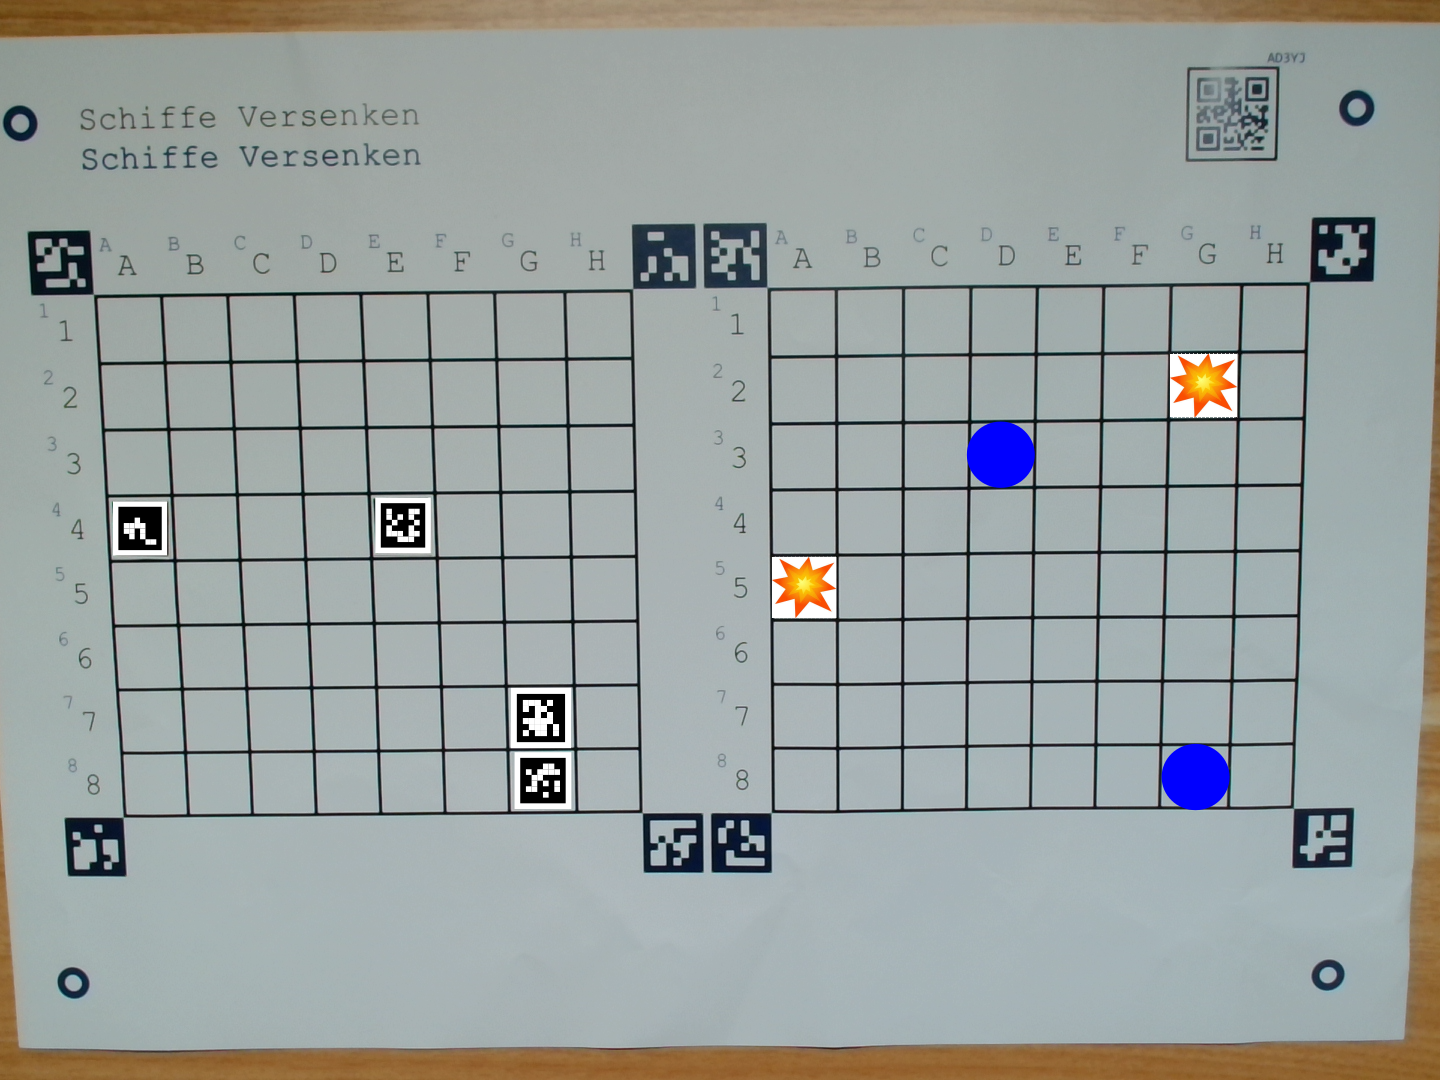
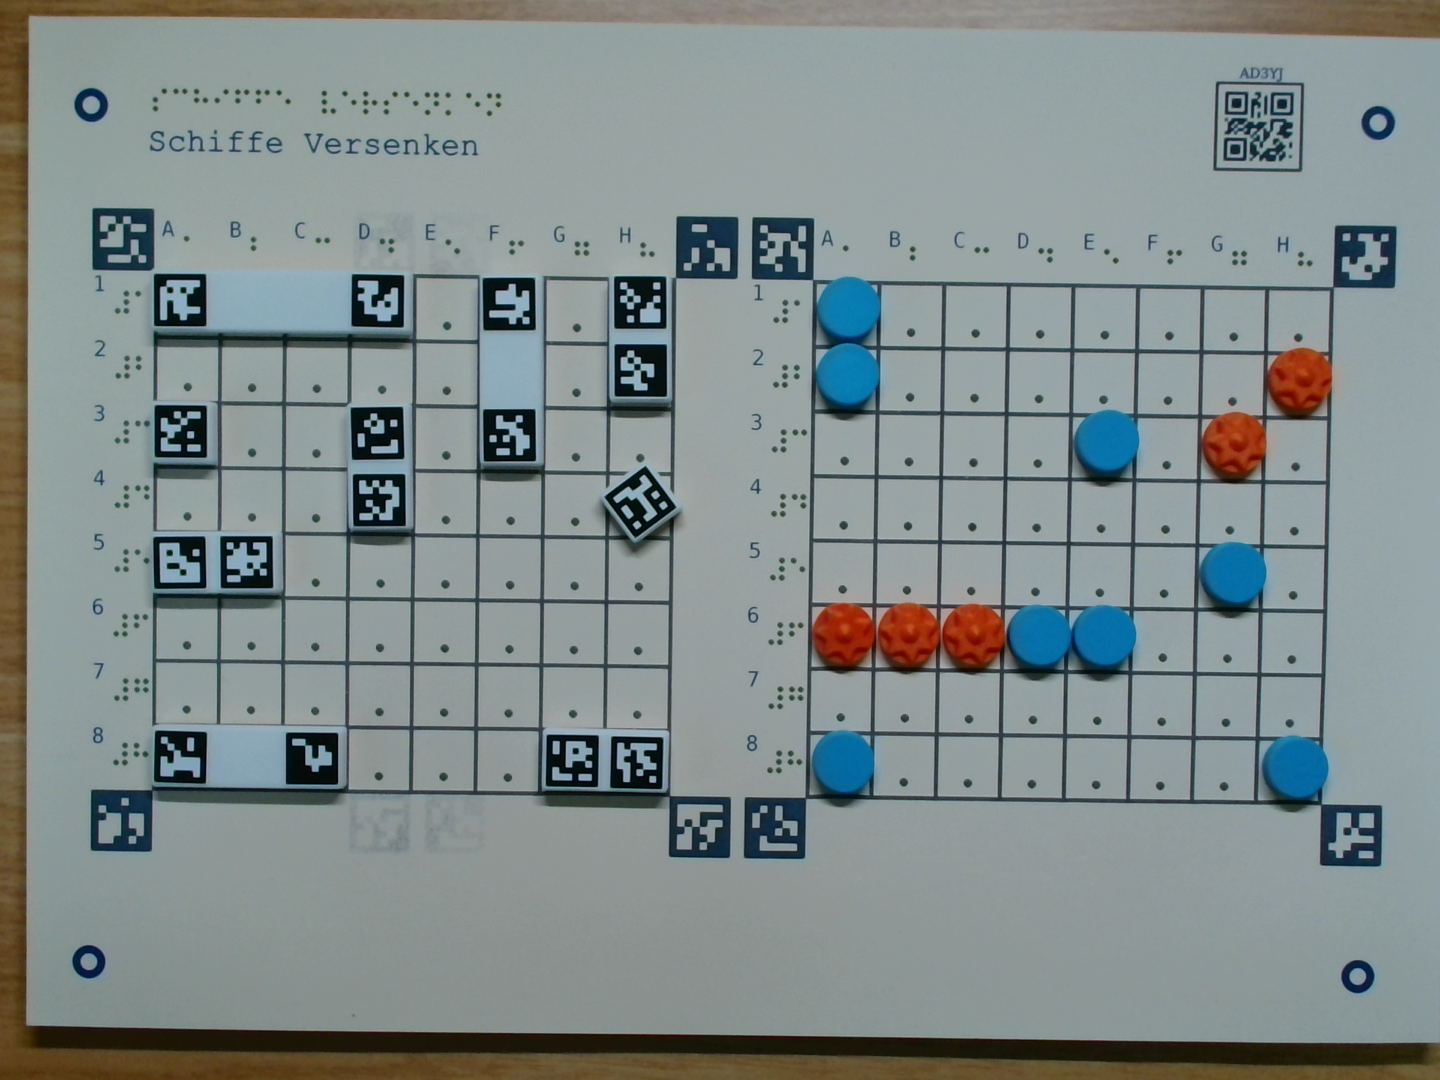
update demo image; ship placement for real, right ships; prepare grid markers

diff --git a/haptic-client/src/components/GameManager.ts b/haptic-client/src/components/GameManager.ts
@@ -10,7 +10,7 @@ import {
   ServerToClientEvents,
   ClientToServerEvents,
 } from '../shared/models';
-import { AVAILABLE_SHIPS, BOARD_SIZE } from '../config';
+import { AVAILABLE_SHIPS, BOARD_SIZE, MARKER_ROLE } from '../config';
 import { Socket } from 'socket.io-client';
 import { Radio } from './Radio';
 
@@ -20,10 +20,14 @@ export class GameManager {
   private phase: 'MainMenu' | 'GameSetup' | 'GameReady' | 'Game' | 'GameOver' = 'MainMenu';
   /** the currently recognized shipPlacement */
   private currentShipPlacement?: ShipPlacement;
-  /**  */
-  // private currentOwnMarkerPlacement;
-  /**  */
-  // private currentOpponentMarkerPlacement;
+  /** whether the player needs respond after the opponent's attack; lock! */
+  private needToRespondToAttack = false;
+  /** currently recognized markers of the left grid */
+  private currentLeftGridMarkers: (MARKER_ROLE | undefined)[] = [];
+  /** whether the player needs to mark his own attack */
+  private needToMarkAfterOwnAttack = false;
+  /** currently recognized markers of the right grid */
+  private currentRightGridMarkers: (MARKER_ROLE | undefined)[] = [];
   private roomConfig?: RoomConfig;
   private ownPlayerNo?: PlayerNo;
   private playerNames?: PlayerNames;
@@ -56,6 +60,8 @@ export class GameManager {
       this.radio.sendMessage(
         (ownAttack ? 'You' : 'The opponent') + ' attacked cell ' + args.coord.x + ' ' + args.coord.y,
       );
+      this.needToRespondToAttack = !ownAttack;
+      this.needToMarkAfterOwnAttack = ownAttack;
     });
 
     this.socket.on('gameOver', (args) => {
@@ -138,23 +144,75 @@ export class GameManager {
     this.currentShipPlacement = placement;
   }
 
-  //update markerplacement
+  /** whether markers of the left grid need to be validated (after opponent's attack) */
+  shouldUpdateLeftGridMarkers(): boolean {
+    return this.needToRespondToAttack;
+  }
+
+  /** update left grid markers; handle new marker */
+  updateLeftGridMarkers(placement: (MARKER_ROLE | undefined)[]) {
+    console.log('new left grid marker', placement);
+    const diff = this.diffFlatMarkerPlacement(placement, this.currentLeftGridMarkers);
+    console.log('diff', diff);
+    diff.flatMap((p, i) => {
+      console.log('als coord', this.flatMarkerPlacementToCoordinate(i));
+      return p ? i : [];
+    });
+    // todo
+    this.currentLeftGridMarkers = placement;
+  }
+
+  /** whether markers of the right grid need to be validated (after own attack) */
+  shouldUpdateRightGridMarkers(): boolean {
+    return this.needToMarkAfterOwnAttack;
+  }
+
+  /** update right grid markers; handle new marker */
+  updateRightGridMarkers(placement: (MARKER_ROLE | undefined)[]) {
+    console.log('new right grid marker', placement);
+    const diff = this.diffFlatMarkerPlacement(placement, this.currentRightGridMarkers);
+    console.log('diff', diff);
+    diff.flatMap((p, i) => {
+      console.log('als coord', this.flatMarkerPlacementToCoordinate(i));
+      return p ? i : [];
+    });
+    // todo diffFlatMarkerPlacement
+    this.currentRightGridMarkers = placement;
+  }
+
+  private diffFlatMarkerPlacement(p1: (MARKER_ROLE | undefined)[], p2: (MARKER_ROLE | undefined)[]) {
+    return p1.map((v1, i) => (v1 == p2[i] ? undefined : (v1 ?? p2[i])));
+    // todo hier könnte ich auch gleich ein array aus Coord + Marker zurückgeben, das übrig geblieben ist
+  }
+
+  /** row major */
+  private flatMarkerPlacementToCoordinate(i: number): Coord {
+    // todo das funktioniert niemals
+    return {
+      x: i % BOARD_SIZE,
+      y: Math.floor(i / BOARD_SIZE),
+    };
+  }
 
   /** handles the gameplay based on user input (gesture) */
   handleGesture(gestureName: string, pointerCoord?: Coord) {
     switch (this.phase) {
       default:
       case 'MainMenu':
-        // hier später beitritt zu raum; wird übersprungen
+        // todo implement room join
         break;
       case 'GameSetup':
-        // wenn thumbs up --> shiplacement bestätigen
+        if (gestureName === 'thumbs_up') {
+          this.confirmShipPlacement();
+        }
         break;
       case 'GameReady':
-        // wird nur vom server unterbrochen
+        // nothing to see here
         break;
       case 'Game':
-        // point als attack senden
+        if (gestureName === 'point' && pointerCoord) {
+          this.confirmAttack(pointerCoord);
+        }
         // setzen der marker --> respond mit thumbs up
         // wenn vorbei, dann gameover melden
         break;
@@ -163,4 +221,14 @@ export class GameManager {
         break;
     }
   }
+
+  // handleGridMarker() {
+  //   // switch (this.phase) {
+  //   //   default:
+  //   //   case 'MainMenu':
+  //   //     break;
+  //   // }
+  //   // hier muss needToRespondToAttack auf false gesetzt werden, sobald der marker gesetzt wird
+  //   // hier muss
+  // }
 }

diff --git a/haptic-client/src/utils.ts b/haptic-client/src/utils.ts
@@ -57,29 +57,39 @@ let baseShipId = 0;
 const getShipId = () => baseShipId++;
 
 export function getShipPlacement(ship: Coord[]): ShipPlacement {
-  if (ship.length !== 2) {
-    console.warn('The ship should consist of exactly two Markers!');
-    return [];
+  if (ship.length === 1) {
+    return [
+      {
+        ...shipDefinitions[0],
+        shipId: getShipId(),
+        orientation: '↔',
+        ...ship[0],
+      },
+    ];
   }
-  const [end1, end2] = ship;
-  if (!(end1.x - end2.x === 0 || end1.y - end2.y === 0)) {
-    console.warn('Either x or y coordinate of the ship should be the same!');
-    return [];
+  if (ship.length === 2) {
+    const [end1, end2] = ship;
+    if (!(end1.x - end2.x === 0 || end1.y - end2.y === 0)) {
+      console.warn('Either x or y coordinate of a ship w/ two Markers should be the same!');
+      return [];
+    }
+    const orientation = end1.x - end2.x ? '↔' : '↕';
+    const size = 1 + Math.abs(end1.x + end1.y - end2.x - end2.y);
+    const shipDefinition = shipDefinitions.find((s) => s.size === size);
+    if (!shipDefinition) {
+      console.warn('A ship w/ this size is unknown.');
+      return [];
+    }
+    const smallerCoordinate = end1.x + end1.y < end2.x + end2.y ? end1 : end2;
+    return [
+      {
+        ...shipDefinition,
+        shipId: getShipId(),
+        orientation: orientation,
+        ...smallerCoordinate,
+      },
+    ];
   }
-  const orientation = end1.x - end2.x ? '↔' : '↕';
-  const size = 1 + Math.abs(end1.x + end1.y - end2.x - end2.y);
-  const shipDefinition = shipDefinitions.find((s) => s.size === size);
-  if (!shipDefinition) {
-    console.warn('The size of the ship is unknown.');
-    return [];
-  }
-  const smallerCoordinate = end1.x + end1.y < end2.x + end2.y ? end1 : end2;
-  return [
-    {
-      ...shipDefinition,
-      shipId: getShipId(),
-      orientation: orientation,
-      ...smallerCoordinate,
-    },
-  ];
+  console.warn('The ship should consist of one or two Markers!');
+  return [];
 }

diff --git a/haptic-client/src/main.ts b/haptic-client/src/main.ts
@@ -163,8 +163,12 @@ async function predictWebcam() {
       gameManager.updateShipPlacement(shipPlacement);
     }
 
-    // validate grid markers on the own grid
-    const leftGridCellMarkers = imageProcessor.detectMarkersByHSV(leftGridCells);
+    // validate grid markers on the own grid if needed
+    if (gameManager.shouldUpdateLeftGridMarkers()) {
+      // detectGridMarker()
+      const leftGridCellMarkers = imageProcessor.detectMarkersByHSV(leftGridCells);
+      // hier validieren, ob neue marker dazu gekommen sind --> handle markers aufrufen
+    }
   }
 
   // crop right grid every 3 frames (+1) and if no hands are visible
@@ -177,7 +181,11 @@ async function predictWebcam() {
       400,
     );
 
-    const rightGridCellMarkers = imageProcessor.detectMarkersByHSV(rightGridCells);
+    // validate grid markers on the own grid if needed
+    if (gameManager.shouldUpdateRightGridMarkers()) {
+      // detectGridMarker()
+      const rightGridCellMarkers = imageProcessor.detectMarkersByHSV(rightGridCells);
+    }
   }
 
   // handle gestures
@@ -198,7 +206,17 @@ function detectShipPlacement(markers: Marker[], grid: Coord[]): ShipPlacement {
   const shipPlacement: ShipPlacement = [];
   //todo hier muss wegen überdeckung gecached werden
 
-  [MARKER_ROLE.SHIP1, MARKER_ROLE.SHIP2].forEach((r) => {
+  [
+    MARKER_ROLE.SHIP1,
+    MARKER_ROLE.SHIP2,
+    MARKER_ROLE.SHIP3,
+    MARKER_ROLE.SHIP4,
+    MARKER_ROLE.SHIP5,
+    MARKER_ROLE.SHIP6,
+    MARKER_ROLE.SHIP7,
+    MARKER_ROLE.SHIP8,
+    MARKER_ROLE.SHIP9,
+  ].forEach((r) => {
     const ship = markers
       .filter((m) => AVAILABLE_ARUCO_MARKERS.filter((a) => a.role === r).some((s) => s.id === m.id))
       .map((s) => imageProcessor.videoPxToGridCoord(getMarkerCenter(s), grid));
@@ -209,6 +227,6 @@ function detectShipPlacement(markers: Marker[], grid: Coord[]): ShipPlacement {
 }
 
 /** detect markers */
-function detectMarkers() {
+function detectGridMarker() {
   // todo
 }

diff --git a/haptic-client/src/config.ts b/haptic-client/src/config.ts
@@ -6,6 +6,13 @@ export enum MARKER_ROLE {
   'MISS',
   'SHIP1',
   'SHIP2',
+  'SHIP3',
+  'SHIP4',
+  'SHIP5',
+  'SHIP6',
+  'SHIP7',
+  'SHIP8',
+  'SHIP9',
 }
 
 /** Config information of an ArUco marker */
@@ -27,10 +34,22 @@ export const AVAILABLE_ARUCO_MARKERS: ArUcoMarkerConfig[] = [
   { id: 5, role: MARKER_ROLE.CORNER_RIGHT_GRID },
   { id: 6, role: MARKER_ROLE.CORNER_RIGHT_GRID },
   { id: 7, role: MARKER_ROLE.CORNER_RIGHT_GRID },
-  { id: 8, role: MARKER_ROLE.SHIP1 },
-  { id: 9, role: MARKER_ROLE.SHIP1 },
-  { id: 10, role: MARKER_ROLE.SHIP2 },
-  { id: 11, role: MARKER_ROLE.SHIP2 },
+  { id: 8, role: MARKER_ROLE.SHIP7 },
+  { id: 9, role: MARKER_ROLE.SHIP3 },
+  { id: 10, role: MARKER_ROLE.SHIP4 },
+  { id: 11, role: MARKER_ROLE.SHIP8 },
+  { id: 12, role: MARKER_ROLE.SHIP1 },
+  { id: 13, role: MARKER_ROLE.SHIP2 },
+  { id: 14, role: MARKER_ROLE.SHIP9 },
+  { id: 15, role: MARKER_ROLE.SHIP9 },
+  { id: 16, role: MARKER_ROLE.SHIP7 },
+  { id: 17, role: MARKER_ROLE.SHIP3 },
+  { id: 18, role: MARKER_ROLE.SHIP5 },
+  { id: 19, role: MARKER_ROLE.SHIP5 },
+  { id: 20, role: MARKER_ROLE.SHIP8 },
+  { id: 21, role: MARKER_ROLE.SHIP6 },
+  { id: 22, role: MARKER_ROLE.SHIP4 },
+  { id: 23, role: MARKER_ROLE.SHIP6 },
 ];
 
 export interface CellMarkerConfig {
@@ -90,7 +109,7 @@ export const GESTURE_HOLD_DURATION_MS = 3000;
 export const BOARD_SIZE = 8;
 
 /**
- * the amount of ships for the haptic game board
+ * the amount of ships for the haptic game board; ascending length TODO
  * @constant
  */
-export const AVAILABLE_SHIPS = [1, 2, 3, 2];
+export const AVAILABLE_SHIPS = [2, 4, 2, 1];

diff --git a/client/src/shared/models.ts b/client/src/shared/models.ts
@@ -34,7 +34,6 @@ export const shipDefinitions: ShipDefinition[] = [
   { size: 2, name: 'cruiser' },
   { size: 3, name: 'battleship' },
   { size: 4, name: 'aircraft carrier' },
-  { size: 5, name: 'todo' },
 ];
 
 export interface ShipInstance {

diff --git a/haptic-client/src/shared/models.ts b/haptic-client/src/shared/models.ts
@@ -34,7 +34,6 @@ export const shipDefinitions: ShipDefinition[] = [
   { size: 2, name: 'cruiser' },
   { size: 3, name: 'battleship' },
   { size: 4, name: 'aircraft carrier' },
-  { size: 5, name: 'todo' },
 ];
 
 export interface ShipInstance {

diff --git a/server/src/shared/models.ts b/server/src/shared/models.ts
@@ -34,7 +34,6 @@ export const shipDefinitions: ShipDefinition[] = [
   { size: 2, name: 'cruiser' },
   { size: 3, name: 'battleship' },
   { size: 4, name: 'aircraft carrier' },
-  { size: 5, name: 'todo' },
 ];
 
 export interface ShipInstance {
